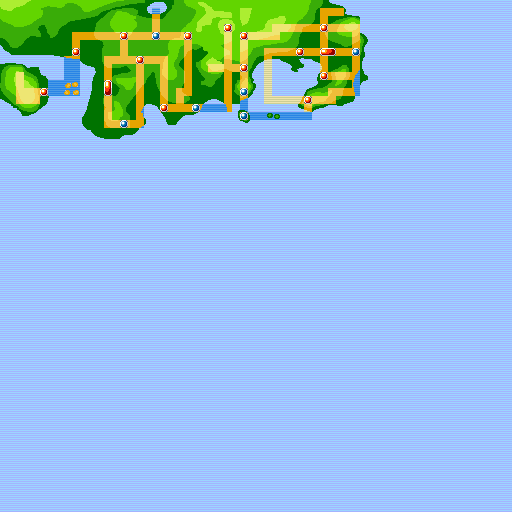
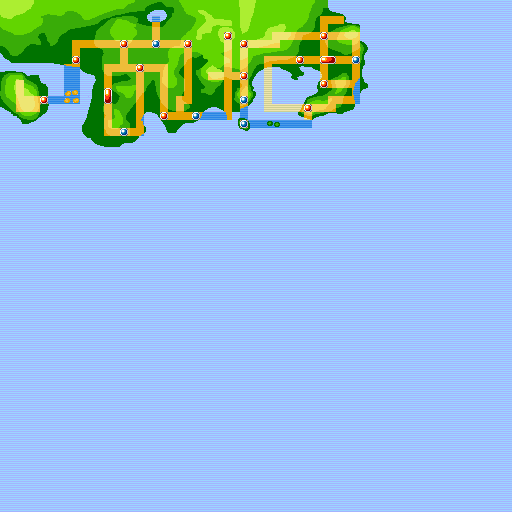
Begin inserting regionmap itself (gba+8bpp)

Changed region(s): [[0.0, 0.0, 0.7188, 0.3125]]

diff --git a/src/data/region_map/region_map_layout.h b/src/data/region_map/region_map_layout.h
@@ -1,17 +1,17 @@
 static const u8 sRegionMap_MapSectionLayout[MAP_HEIGHT][MAP_WIDTH] = {
-    {MAPSEC_NONE, MAPSEC_ROUTE_114, MAPSEC_ROUTE_114, MAPSEC_FALLARBOR_TOWN, MAPSEC_ROUTE_113, MAPSEC_ROUTE_113, MAPSEC_ROUTE_113, MAPSEC_ROUTE_113, MAPSEC_ROUTE_111, MAPSEC_NONE, MAPSEC_NONE, MAPSEC_ROUTE_119, MAPSEC_FORTREE_CITY, MAPSEC_ROUTE_120, MAPSEC_NONE, MAPSEC_NONE, MAPSEC_NONE, MAPSEC_NONE, MAPSEC_NONE, MAPSEC_NONE, MAPSEC_NONE, MAPSEC_NONE, MAPSEC_NONE, MAPSEC_NONE, MAPSEC_NONE, MAPSEC_NONE, MAPSEC_NONE, MAPSEC_NONE},
-    {MAPSEC_NONE, MAPSEC_ROUTE_114, MAPSEC_NONE, MAPSEC_NONE, MAPSEC_NONE, MAPSEC_NONE, MAPSEC_MT_CHIMNEY, MAPSEC_MT_CHIMNEY, MAPSEC_ROUTE_111, MAPSEC_NONE, MAPSEC_NONE, MAPSEC_ROUTE_119, MAPSEC_NONE, MAPSEC_ROUTE_120, MAPSEC_NONE, MAPSEC_NONE, MAPSEC_NONE, MAPSEC_NONE, MAPSEC_NONE, MAPSEC_NONE, MAPSEC_NONE, MAPSEC_NONE, MAPSEC_NONE, MAPSEC_NONE, MAPSEC_NONE, MAPSEC_NONE, MAPSEC_NONE, MAPSEC_NONE},
-    {MAPSEC_ROUTE_115, MAPSEC_ROUTE_114, MAPSEC_NONE, MAPSEC_NONE, MAPSEC_NONE, MAPSEC_NONE, MAPSEC_MT_CHIMNEY, MAPSEC_MT_CHIMNEY, MAPSEC_ROUTE_111, MAPSEC_NONE, MAPSEC_NONE, MAPSEC_ROUTE_119, MAPSEC_NONE, MAPSEC_ROUTE_120, MAPSEC_NONE, MAPSEC_NONE, MAPSEC_SAFARI_ZONE, MAPSEC_NONE, MAPSEC_NONE, MAPSEC_NONE, MAPSEC_NONE, MAPSEC_NONE, MAPSEC_NONE, MAPSEC_NONE, MAPSEC_NONE, MAPSEC_NONE, MAPSEC_NONE, MAPSEC_NONE},
-    {MAPSEC_ROUTE_115, MAPSEC_NONE, MAPSEC_NONE, MAPSEC_NONE, MAPSEC_NONE, MAPSEC_LAVARIDGE_TOWN, MAPSEC_ROUTE_112, MAPSEC_ROUTE_112, MAPSEC_ROUTE_111, MAPSEC_NONE, MAPSEC_NONE, MAPSEC_ROUTE_119, MAPSEC_NONE, MAPSEC_ROUTE_120, MAPSEC_ROUTE_121, MAPSEC_ROUTE_121, MAPSEC_ROUTE_121, MAPSEC_ROUTE_121, MAPSEC_LILYCOVE_CITY, MAPSEC_LILYCOVE_CITY, MAPSEC_ROUTE_124, MAPSEC_ROUTE_124, MAPSEC_ROUTE_124, MAPSEC_ROUTE_124, MAPSEC_ROUTE_125, MAPSEC_ROUTE_125, MAPSEC_NONE, MAPSEC_NONE},
-    {MAPSEC_ROUTE_115, MAPSEC_NONE, MAPSEC_NONE, MAPSEC_NONE, MAPSEC_NONE, MAPSEC_NONE, MAPSEC_NONE, MAPSEC_NONE, MAPSEC_ROUTE_111, MAPSEC_NONE, MAPSEC_NONE, MAPSEC_ROUTE_119, MAPSEC_NONE, MAPSEC_NONE, MAPSEC_NONE, MAPSEC_NONE, MAPSEC_ROUTE_122, MAPSEC_NONE, MAPSEC_NONE, MAPSEC_NONE, MAPSEC_ROUTE_124, MAPSEC_ROUTE_124, MAPSEC_ROUTE_124, MAPSEC_ROUTE_124, MAPSEC_ROUTE_125, MAPSEC_ROUTE_125, MAPSEC_NONE, MAPSEC_NONE},
-    {MAPSEC_RUSTBORO_CITY, MAPSEC_ROUTE_116, MAPSEC_ROUTE_116, MAPSEC_ROUTE_116, MAPSEC_ROUTE_116, MAPSEC_NONE, MAPSEC_NONE, MAPSEC_NONE, MAPSEC_ROUTE_111, MAPSEC_NONE, MAPSEC_NONE, MAPSEC_ROUTE_119, MAPSEC_NONE, MAPSEC_NONE, MAPSEC_NONE, MAPSEC_NONE, MAPSEC_ROUTE_122, MAPSEC_NONE, MAPSEC_NONE, MAPSEC_NONE, MAPSEC_ROUTE_124, MAPSEC_ROUTE_124, MAPSEC_ROUTE_124, MAPSEC_ROUTE_124, MAPSEC_MOSSDEEP_CITY, MAPSEC_MOSSDEEP_CITY, MAPSEC_NONE, MAPSEC_NONE},
-    {MAPSEC_RUSTBORO_CITY, MAPSEC_NONE, MAPSEC_NONE, MAPSEC_NONE, MAPSEC_VERDANTURF_TOWN, MAPSEC_ROUTE_117, MAPSEC_ROUTE_117, MAPSEC_ROUTE_117, MAPSEC_MAUVILLE_CITY, MAPSEC_MAUVILLE_CITY, MAPSEC_ROUTE_118, MAPSEC_ROUTE_118, MAPSEC_ROUTE_123, MAPSEC_ROUTE_123, MAPSEC_ROUTE_123, MAPSEC_ROUTE_123, MAPSEC_ROUTE_123, MAPSEC_NONE, MAPSEC_NONE, MAPSEC_NONE, MAPSEC_ROUTE_126, MAPSEC_ROUTE_126, MAPSEC_ROUTE_126, MAPSEC_ROUTE_127, MAPSEC_ROUTE_127, MAPSEC_ROUTE_127, MAPSEC_NONE, MAPSEC_NONE},
-    {MAPSEC_ROUTE_104, MAPSEC_NONE, MAPSEC_NONE, MAPSEC_NONE, MAPSEC_NONE, MAPSEC_NONE, MAPSEC_NONE, MAPSEC_NONE, MAPSEC_ROUTE_110, MAPSEC_NONE, MAPSEC_NONE, MAPSEC_NONE, MAPSEC_NONE, MAPSEC_NONE, MAPSEC_NONE, MAPSEC_NONE, MAPSEC_NONE, MAPSEC_NONE, MAPSEC_NONE, MAPSEC_NONE, MAPSEC_ROUTE_126, MAPSEC_SOOTOPOLIS_CITY, MAPSEC_ROUTE_126, MAPSEC_ROUTE_127, MAPSEC_ROUTE_127, MAPSEC_ROUTE_127, MAPSEC_NONE, MAPSEC_NONE},
-    {MAPSEC_ROUTE_104, MAPSEC_NONE, MAPSEC_NONE, MAPSEC_NONE, MAPSEC_ROUTE_103, MAPSEC_ROUTE_103, MAPSEC_ROUTE_103, MAPSEC_ROUTE_103, MAPSEC_ROUTE_110, MAPSEC_NONE, MAPSEC_NONE, MAPSEC_NONE, MAPSEC_NONE, MAPSEC_NONE, MAPSEC_NONE, MAPSEC_NONE, MAPSEC_NONE, MAPSEC_NONE, MAPSEC_NONE, MAPSEC_NONE, MAPSEC_ROUTE_126, MAPSEC_ROUTE_126, MAPSEC_ROUTE_126, MAPSEC_ROUTE_127, MAPSEC_ROUTE_127, MAPSEC_ROUTE_127, MAPSEC_NONE, MAPSEC_EVER_GRANDE_CITY},
-    {MAPSEC_ROUTE_104, MAPSEC_PETALBURG_CITY, MAPSEC_ROUTE_102, MAPSEC_ROUTE_102, MAPSEC_OLDALE_TOWN, MAPSEC_NONE, MAPSEC_NONE, MAPSEC_NONE, MAPSEC_ROUTE_110, MAPSEC_NONE, MAPSEC_NONE, MAPSEC_NONE, MAPSEC_NONE, MAPSEC_NONE, MAPSEC_NONE, MAPSEC_NONE, MAPSEC_NONE, MAPSEC_NONE, MAPSEC_NONE, MAPSEC_NONE, MAPSEC_NONE, MAPSEC_NONE, MAPSEC_NONE, MAPSEC_ROUTE_128, MAPSEC_ROUTE_128, MAPSEC_ROUTE_128, MAPSEC_ROUTE_128, MAPSEC_EVER_GRANDE_CITY},
-    {MAPSEC_ROUTE_105, MAPSEC_NONE, MAPSEC_NONE, MAPSEC_NONE, MAPSEC_ROUTE_101, MAPSEC_NONE, MAPSEC_NONE, MAPSEC_NONE, MAPSEC_SLATEPORT_CITY, MAPSEC_ROUTE_134, MAPSEC_ROUTE_134, MAPSEC_ROUTE_134, MAPSEC_ROUTE_133, MAPSEC_ROUTE_133, MAPSEC_ROUTE_133, MAPSEC_ROUTE_132, MAPSEC_ROUTE_132, MAPSEC_PACIFIDLOG_TOWN, MAPSEC_ROUTE_131, MAPSEC_ROUTE_131, MAPSEC_ROUTE_131, MAPSEC_ROUTE_130, MAPSEC_ROUTE_130, MAPSEC_ROUTE_130, MAPSEC_ROUTE_129, MAPSEC_ROUTE_129, MAPSEC_NONE, MAPSEC_NONE},
-    {MAPSEC_ROUTE_105, MAPSEC_NONE, MAPSEC_NONE, MAPSEC_NONE, MAPSEC_LITTLEROOT_TOWN, MAPSEC_NONE, MAPSEC_NONE, MAPSEC_NONE, MAPSEC_SLATEPORT_CITY, MAPSEC_NONE, MAPSEC_NONE, MAPSEC_NONE, MAPSEC_NONE, MAPSEC_NONE, MAPSEC_NONE, MAPSEC_NONE, MAPSEC_NONE, MAPSEC_NONE, MAPSEC_NONE, MAPSEC_NONE, MAPSEC_NONE, MAPSEC_NONE, MAPSEC_NONE, MAPSEC_NONE, MAPSEC_NONE, MAPSEC_NONE, MAPSEC_NONE, MAPSEC_NONE},
-    {MAPSEC_ROUTE_105, MAPSEC_NONE, MAPSEC_NONE, MAPSEC_NONE, MAPSEC_NONE, MAPSEC_NONE, MAPSEC_NONE, MAPSEC_NONE, MAPSEC_ROUTE_109, MAPSEC_NONE, MAPSEC_NONE, MAPSEC_NONE, MAPSEC_NONE, MAPSEC_NONE, MAPSEC_NONE, MAPSEC_NONE, MAPSEC_NONE, MAPSEC_NONE, MAPSEC_NONE, MAPSEC_NONE, MAPSEC_NONE, MAPSEC_NONE, MAPSEC_BATTLE_FRONTIER, MAPSEC_NONE, MAPSEC_NONE, MAPSEC_NONE, MAPSEC_NONE, MAPSEC_NONE},
-    {MAPSEC_ROUTE_106, MAPSEC_ROUTE_106, MAPSEC_ROUTE_106, MAPSEC_NONE, MAPSEC_NONE, MAPSEC_NONE, MAPSEC_NONE, MAPSEC_NONE, MAPSEC_ROUTE_109, MAPSEC_NONE, MAPSEC_NONE, MAPSEC_NONE, MAPSEC_NONE, MAPSEC_NONE, MAPSEC_NONE, MAPSEC_NONE, MAPSEC_NONE, MAPSEC_NONE, MAPSEC_NONE, MAPSEC_NONE, MAPSEC_NONE, MAPSEC_NONE, MAPSEC_NONE, MAPSEC_NONE, MAPSEC_NONE, MAPSEC_NONE, MAPSEC_NONE, MAPSEC_NONE},
-    {MAPSEC_NONE, MAPSEC_NONE, MAPSEC_DEWFORD_TOWN, MAPSEC_ROUTE_107, MAPSEC_ROUTE_107, MAPSEC_ROUTE_107, MAPSEC_ROUTE_108, MAPSEC_ROUTE_108, MAPSEC_ROUTE_109, MAPSEC_NONE, MAPSEC_NONE, MAPSEC_NONE, MAPSEC_SOUTHERN_ISLAND, MAPSEC_NONE, MAPSEC_NONE, MAPSEC_NONE, MAPSEC_NONE, MAPSEC_NONE, MAPSEC_NONE, MAPSEC_NONE, MAPSEC_NONE, MAPSEC_NONE, MAPSEC_NONE, MAPSEC_NONE, MAPSEC_NONE, MAPSEC_NONE, MAPSEC_NONE, MAPSEC_NONE},
+    {MAPSEC_NONE, MAPSEC_NONE, MAPSEC_NONE, MAPSEC_NONE, MAPSEC_NONE, MAPSEC_NONE, MAPSEC_NONE, MAPSEC_NONE, MAPSEC_NONE, MAPSEC_NONE, MAPSEC_NONE, MAPSEC_NONE, MAPSEC_NONE, MAPSEC_NONE, MAPSEC_NONE, MAPSEC_NONE, MAPSEC_NONE, MAPSEC_NONE, MAPSEC_NONE, MAPSEC_NONE, MAPSEC_NONE, MAPSEC_NONE, MAPSEC_NONE, MAPSEC_NONE, MAPSEC_NONE, MAPSEC_NONE, MAPSEC_NONE, MAPSEC_NONE, MAPSEC_NONE, MAPSEC_NONE, MAPSEC_NONE, MAPSEC_NONE, MAPSEC_NONE, MAPSEC_NONE, MAPSEC_NONE, MAPSEC_NONE, MAPSEC_NONE, MAPSEC_NONE, MAPSEC_NONE, MAPSEC_NONE, MAPSEC_NONE, MAPSEC_NONE, MAPSEC_NONE, MAPSEC_NONE},
+    {MAPSEC_NONE, MAPSEC_NONE, MAPSEC_NONE, MAPSEC_NONE, MAPSEC_NONE, MAPSEC_NONE, MAPSEC_NONE, MAPSEC_NONE, MAPSEC_NONE, MAPSEC_NONE, MAPSEC_NONE, MAPSEC_NONE, MAPSEC_NONE, MAPSEC_NONE, MAPSEC_NONE, MAPSEC_NONE, MAPSEC_NONE, MAPSEC_NONE, MAPSEC_NONE, MAPSEC_NONE, MAPSEC_NONE, MAPSEC_NONE, MAPSEC_NONE, MAPSEC_NONE, MAPSEC_NONE, MAPSEC_NONE, MAPSEC_NONE, MAPSEC_NONE, MAPSEC_NONE, MAPSEC_NONE, MAPSEC_NONE, MAPSEC_NONE, MAPSEC_NONE, MAPSEC_NONE, MAPSEC_NONE, MAPSEC_NONE, MAPSEC_NONE, MAPSEC_NONE, MAPSEC_NONE, MAPSEC_NONE, MAPSEC_NONE, MAPSEC_NONE, MAPSEC_NONE, MAPSEC_NONE},
+    {MAPSEC_NONE, MAPSEC_NONE, MAPSEC_NONE, MAPSEC_NONE, MAPSEC_NONE, MAPSEC_NONE, MAPSEC_NONE, MAPSEC_NONE, MAPSEC_NONE, MAPSEC_NONE, MAPSEC_NONE, MAPSEC_NONE, MAPSEC_NONE, MAPSEC_NONE, MAPSEC_NONE, MAPSEC_NONE, MAPSEC_NONE, MAPSEC_NONE, MAPSEC_NONE, MAPSEC_NONE, MAPSEC_NONE, MAPSEC_NONE, MAPSEC_NONE, MAPSEC_NONE, MAPSEC_NONE, MAPSEC_NONE, MAPSEC_NONE, MAPSEC_NONE, MAPSEC_NONE, MAPSEC_NONE, MAPSEC_NONE, MAPSEC_NONE, MAPSEC_NONE, MAPSEC_NONE, MAPSEC_NONE, MAPSEC_NONE, MAPSEC_NONE, MAPSEC_NONE, MAPSEC_NONE, MAPSEC_NONE, MAPSEC_NONE, MAPSEC_NONE, MAPSEC_NONE, MAPSEC_NONE},
+    {MAPSEC_NONE, MAPSEC_NONE, MAPSEC_NONE, MAPSEC_NONE, MAPSEC_NONE, MAPSEC_NONE, MAPSEC_NONE, MAPSEC_NONE, MAPSEC_NONE, MAPSEC_NONE, MAPSEC_NONE, MAPSEC_NONE, MAPSEC_NONE, MAPSEC_NONE, MAPSEC_NONE, MAPSEC_NONE, MAPSEC_NONE, MAPSEC_NONE, MAPSEC_NONE, MAPSEC_NONE, MAPSEC_NONE, MAPSEC_NONE, MAPSEC_NONE, MAPSEC_NONE, MAPSEC_NONE, MAPSEC_NONE, MAPSEC_NONE, MAPSEC_NONE, MAPSEC_NONE, MAPSEC_NONE, MAPSEC_NONE, MAPSEC_NONE, MAPSEC_NONE, MAPSEC_NONE, MAPSEC_NONE, MAPSEC_NONE, MAPSEC_NONE, MAPSEC_NONE, MAPSEC_NONE, MAPSEC_NONE, MAPSEC_NONE, MAPSEC_NONE, MAPSEC_NONE, MAPSEC_NONE},
+    {MAPSEC_NONE, MAPSEC_NONE, MAPSEC_NONE, MAPSEC_NONE, MAPSEC_NONE, MAPSEC_NONE, MAPSEC_NONE, MAPSEC_NONE, MAPSEC_NONE, MAPSEC_NONE, MAPSEC_NONE, MAPSEC_NONE, MAPSEC_NONE, MAPSEC_NONE, MAPSEC_NONE, MAPSEC_NONE, MAPSEC_NONE, MAPSEC_NONE, MAPSEC_NONE, MAPSEC_NONE, MAPSEC_NONE, MAPSEC_NONE, MAPSEC_NONE, MAPSEC_NONE, MAPSEC_NONE, MAPSEC_NONE, MAPSEC_NONE, MAPSEC_NONE, MAPSEC_NONE, MAPSEC_NONE, MAPSEC_NONE, MAPSEC_NONE, MAPSEC_NONE, MAPSEC_NONE, MAPSEC_NONE, MAPSEC_NONE, MAPSEC_NONE, MAPSEC_NONE, MAPSEC_NONE, MAPSEC_NONE, MAPSEC_NONE, MAPSEC_NONE, MAPSEC_NONE, MAPSEC_NONE},
+    {MAPSEC_NONE, MAPSEC_NONE, MAPSEC_NONE, MAPSEC_NONE, MAPSEC_NONE, MAPSEC_NONE, MAPSEC_NONE, MAPSEC_NONE, MAPSEC_NONE, MAPSEC_NONE, MAPSEC_NONE, MAPSEC_NONE, MAPSEC_NONE, MAPSEC_NONE, MAPSEC_NONE, MAPSEC_NONE, MAPSEC_NONE, MAPSEC_NONE, MAPSEC_NONE, MAPSEC_NONE, MAPSEC_NONE, MAPSEC_NONE, MAPSEC_NONE, MAPSEC_NONE, MAPSEC_NONE, MAPSEC_NONE, MAPSEC_NONE, MAPSEC_NONE, MAPSEC_NONE, MAPSEC_NONE, MAPSEC_NONE, MAPSEC_NONE, MAPSEC_NONE, MAPSEC_NONE, MAPSEC_NONE, MAPSEC_NONE, MAPSEC_NONE, MAPSEC_NONE, MAPSEC_NONE, MAPSEC_NONE, MAPSEC_NONE, MAPSEC_NONE, MAPSEC_NONE, MAPSEC_NONE},
+    {MAPSEC_NONE, MAPSEC_NONE, MAPSEC_NONE, MAPSEC_NONE, MAPSEC_NONE, MAPSEC_NONE, MAPSEC_NONE, MAPSEC_NONE, MAPSEC_NONE, MAPSEC_NONE, MAPSEC_NONE, MAPSEC_NONE, MAPSEC_NONE, MAPSEC_NONE, MAPSEC_NONE, MAPSEC_NONE, MAPSEC_NONE, MAPSEC_NONE, MAPSEC_NONE, MAPSEC_NONE, MAPSEC_NONE, MAPSEC_NONE, MAPSEC_NONE, MAPSEC_NONE, MAPSEC_NONE, MAPSEC_NONE, MAPSEC_NONE, MAPSEC_NONE, MAPSEC_NONE, MAPSEC_NONE, MAPSEC_NONE, MAPSEC_NONE, MAPSEC_NONE, MAPSEC_NONE, MAPSEC_NONE, MAPSEC_NONE, MAPSEC_NONE, MAPSEC_NONE, MAPSEC_NONE, MAPSEC_NONE, MAPSEC_NONE, MAPSEC_NONE, MAPSEC_NONE, MAPSEC_NONE},
+    {MAPSEC_NONE, MAPSEC_NONE, MAPSEC_NONE, MAPSEC_NONE, MAPSEC_NONE, MAPSEC_NONE, MAPSEC_NONE, MAPSEC_NONE, MAPSEC_NONE, MAPSEC_NONE, MAPSEC_NONE, MAPSEC_NONE, MAPSEC_NONE, MAPSEC_NONE, MAPSEC_NONE, MAPSEC_NONE, MAPSEC_NONE, MAPSEC_NONE, MAPSEC_NONE, MAPSEC_NONE, MAPSEC_NONE, MAPSEC_NONE, MAPSEC_NONE, MAPSEC_NONE, MAPSEC_NONE, MAPSEC_NONE, MAPSEC_NONE, MAPSEC_NONE, MAPSEC_NONE, MAPSEC_NONE, MAPSEC_NONE, MAPSEC_NONE, MAPSEC_NONE, MAPSEC_NONE, MAPSEC_NONE, MAPSEC_NONE, MAPSEC_NONE, MAPSEC_NONE, MAPSEC_NONE, MAPSEC_NONE, MAPSEC_NONE, MAPSEC_NONE, MAPSEC_NONE, MAPSEC_NONE},
+    {MAPSEC_NONE, MAPSEC_NONE, MAPSEC_NONE, MAPSEC_NONE, MAPSEC_NONE, MAPSEC_NONE, MAPSEC_NONE, MAPSEC_NONE, MAPSEC_NONE, MAPSEC_NONE, MAPSEC_NONE, MAPSEC_NONE, MAPSEC_NONE, MAPSEC_NONE, MAPSEC_NONE, MAPSEC_NONE, MAPSEC_NONE, MAPSEC_NONE, MAPSEC_NONE, MAPSEC_NONE, MAPSEC_NONE, MAPSEC_NONE, MAPSEC_NONE, MAPSEC_NONE, MAPSEC_NONE, MAPSEC_NONE, MAPSEC_NONE, MAPSEC_NONE, MAPSEC_NONE, MAPSEC_NONE, MAPSEC_NONE, MAPSEC_NONE, MAPSEC_NONE, MAPSEC_NONE, MAPSEC_NONE, MAPSEC_NONE, MAPSEC_NONE, MAPSEC_NONE, MAPSEC_NONE, MAPSEC_NONE, MAPSEC_NONE, MAPSEC_NONE, MAPSEC_NONE, MAPSEC_NONE},
+    {MAPSEC_NONE, MAPSEC_NONE, MAPSEC_NONE, MAPSEC_NONE, MAPSEC_NONE, MAPSEC_NONE, MAPSEC_NONE, MAPSEC_NONE, MAPSEC_NONE, MAPSEC_NONE, MAPSEC_NONE, MAPSEC_NONE, MAPSEC_NONE, MAPSEC_NONE, MAPSEC_NONE, MAPSEC_NONE, MAPSEC_NONE, MAPSEC_NONE, MAPSEC_NONE, MAPSEC_NONE, MAPSEC_NONE, MAPSEC_NONE, MAPSEC_NONE, MAPSEC_NONE, MAPSEC_NONE, MAPSEC_NONE, MAPSEC_NONE, MAPSEC_NONE, MAPSEC_NONE, MAPSEC_NONE, MAPSEC_NONE, MAPSEC_NONE, MAPSEC_NONE, MAPSEC_NONE, MAPSEC_NONE, MAPSEC_NONE, MAPSEC_NONE, MAPSEC_NONE, MAPSEC_NONE, MAPSEC_NONE, MAPSEC_NONE, MAPSEC_NONE, MAPSEC_NONE, MAPSEC_NONE},
+    {MAPSEC_NONE, MAPSEC_NONE, MAPSEC_NONE, MAPSEC_NONE, MAPSEC_NONE, MAPSEC_NONE, MAPSEC_NONE, MAPSEC_NONE, MAPSEC_NONE, MAPSEC_NONE, MAPSEC_NONE, MAPSEC_NONE, MAPSEC_NONE, MAPSEC_NONE, MAPSEC_NONE, MAPSEC_NONE, MAPSEC_NONE, MAPSEC_NONE, MAPSEC_NONE, MAPSEC_NONE, MAPSEC_NONE, MAPSEC_NONE, MAPSEC_NONE, MAPSEC_NONE, MAPSEC_NONE, MAPSEC_NONE, MAPSEC_NONE, MAPSEC_NONE, MAPSEC_NONE, MAPSEC_NONE, MAPSEC_NONE, MAPSEC_NONE, MAPSEC_NONE, MAPSEC_NONE, MAPSEC_NONE, MAPSEC_NONE, MAPSEC_NONE, MAPSEC_NONE, MAPSEC_NONE, MAPSEC_NONE, MAPSEC_NONE, MAPSEC_NONE, MAPSEC_NONE, MAPSEC_NONE},
+    {MAPSEC_NONE, MAPSEC_NONE, MAPSEC_NONE, MAPSEC_NONE, MAPSEC_NONE, MAPSEC_NONE, MAPSEC_NONE, MAPSEC_NONE, MAPSEC_NONE, MAPSEC_NONE, MAPSEC_NONE, MAPSEC_NONE, MAPSEC_NONE, MAPSEC_NONE, MAPSEC_NONE, MAPSEC_NONE, MAPSEC_NONE, MAPSEC_NONE, MAPSEC_NONE, MAPSEC_NONE, MAPSEC_NONE, MAPSEC_NONE, MAPSEC_NONE, MAPSEC_NONE, MAPSEC_NONE, MAPSEC_NONE, MAPSEC_NONE, MAPSEC_NONE, MAPSEC_NONE, MAPSEC_NONE, MAPSEC_NONE, MAPSEC_NONE, MAPSEC_NONE, MAPSEC_NONE, MAPSEC_NONE, MAPSEC_NONE, MAPSEC_NONE, MAPSEC_NONE, MAPSEC_NONE, MAPSEC_NONE, MAPSEC_NONE, MAPSEC_NONE, MAPSEC_NONE, MAPSEC_NONE},
+    {MAPSEC_NONE, MAPSEC_NONE, MAPSEC_NONE, MAPSEC_NONE, MAPSEC_NONE, MAPSEC_NONE, MAPSEC_NONE, MAPSEC_NONE, MAPSEC_NONE, MAPSEC_NONE, MAPSEC_NONE, MAPSEC_NONE, MAPSEC_NONE, MAPSEC_NONE, MAPSEC_NONE, MAPSEC_NONE, MAPSEC_NONE, MAPSEC_NONE, MAPSEC_NONE, MAPSEC_NONE, MAPSEC_NONE, MAPSEC_NONE, MAPSEC_NONE, MAPSEC_NONE, MAPSEC_NONE, MAPSEC_NONE, MAPSEC_NONE, MAPSEC_NONE, MAPSEC_NONE, MAPSEC_NONE, MAPSEC_NONE, MAPSEC_NONE, MAPSEC_NONE, MAPSEC_NONE, MAPSEC_NONE, MAPSEC_NONE, MAPSEC_NONE, MAPSEC_NONE, MAPSEC_NONE, MAPSEC_NONE, MAPSEC_NONE, MAPSEC_NONE, MAPSEC_NONE, MAPSEC_NONE},
+    {MAPSEC_NONE, MAPSEC_NONE, MAPSEC_NONE, MAPSEC_NONE, MAPSEC_NONE, MAPSEC_NONE, MAPSEC_NONE, MAPSEC_NONE, MAPSEC_NONE, MAPSEC_NONE, MAPSEC_NONE, MAPSEC_NONE, MAPSEC_NONE, MAPSEC_NONE, MAPSEC_NONE, MAPSEC_NONE, MAPSEC_NONE, MAPSEC_NONE, MAPSEC_NONE, MAPSEC_NONE, MAPSEC_NONE, MAPSEC_NONE, MAPSEC_NONE, MAPSEC_NONE, MAPSEC_NONE, MAPSEC_NONE, MAPSEC_NONE, MAPSEC_NONE, MAPSEC_NONE, MAPSEC_NONE, MAPSEC_NONE, MAPSEC_NONE, MAPSEC_NONE, MAPSEC_NONE, MAPSEC_NONE, MAPSEC_NONE, MAPSEC_NONE, MAPSEC_NONE, MAPSEC_NONE, MAPSEC_NONE, MAPSEC_NONE, MAPSEC_NONE, MAPSEC_NONE, MAPSEC_NONE},
+    {MAPSEC_NONE, MAPSEC_NONE, MAPSEC_NONE, MAPSEC_NONE, MAPSEC_NONE, MAPSEC_NONE, MAPSEC_NONE, MAPSEC_NONE, MAPSEC_NONE, MAPSEC_NONE, MAPSEC_NONE, MAPSEC_NONE, MAPSEC_NONE, MAPSEC_NONE, MAPSEC_NONE, MAPSEC_NONE, MAPSEC_NONE, MAPSEC_NONE, MAPSEC_NONE, MAPSEC_NONE, MAPSEC_NONE, MAPSEC_NONE, MAPSEC_NONE, MAPSEC_NONE, MAPSEC_NONE, MAPSEC_NONE, MAPSEC_NONE, MAPSEC_NONE, MAPSEC_NONE, MAPSEC_NONE, MAPSEC_NONE, MAPSEC_NONE, MAPSEC_NONE, MAPSEC_NONE, MAPSEC_NONE, MAPSEC_NONE, MAPSEC_NONE, MAPSEC_NONE, MAPSEC_NONE, MAPSEC_NONE, MAPSEC_NONE, MAPSEC_NONE, MAPSEC_NONE, MAPSEC_NONE},
 };

diff --git a/src/region_map.c b/src/region_map.c
@@ -38,7 +38,7 @@
  *
  */
 
-#define MAP_WIDTH 28
+#define MAP_WIDTH 44
 #define MAP_HEIGHT 15
 #define MAPCURSOR_X_MIN 1
 #define MAPCURSOR_Y_MIN 2
